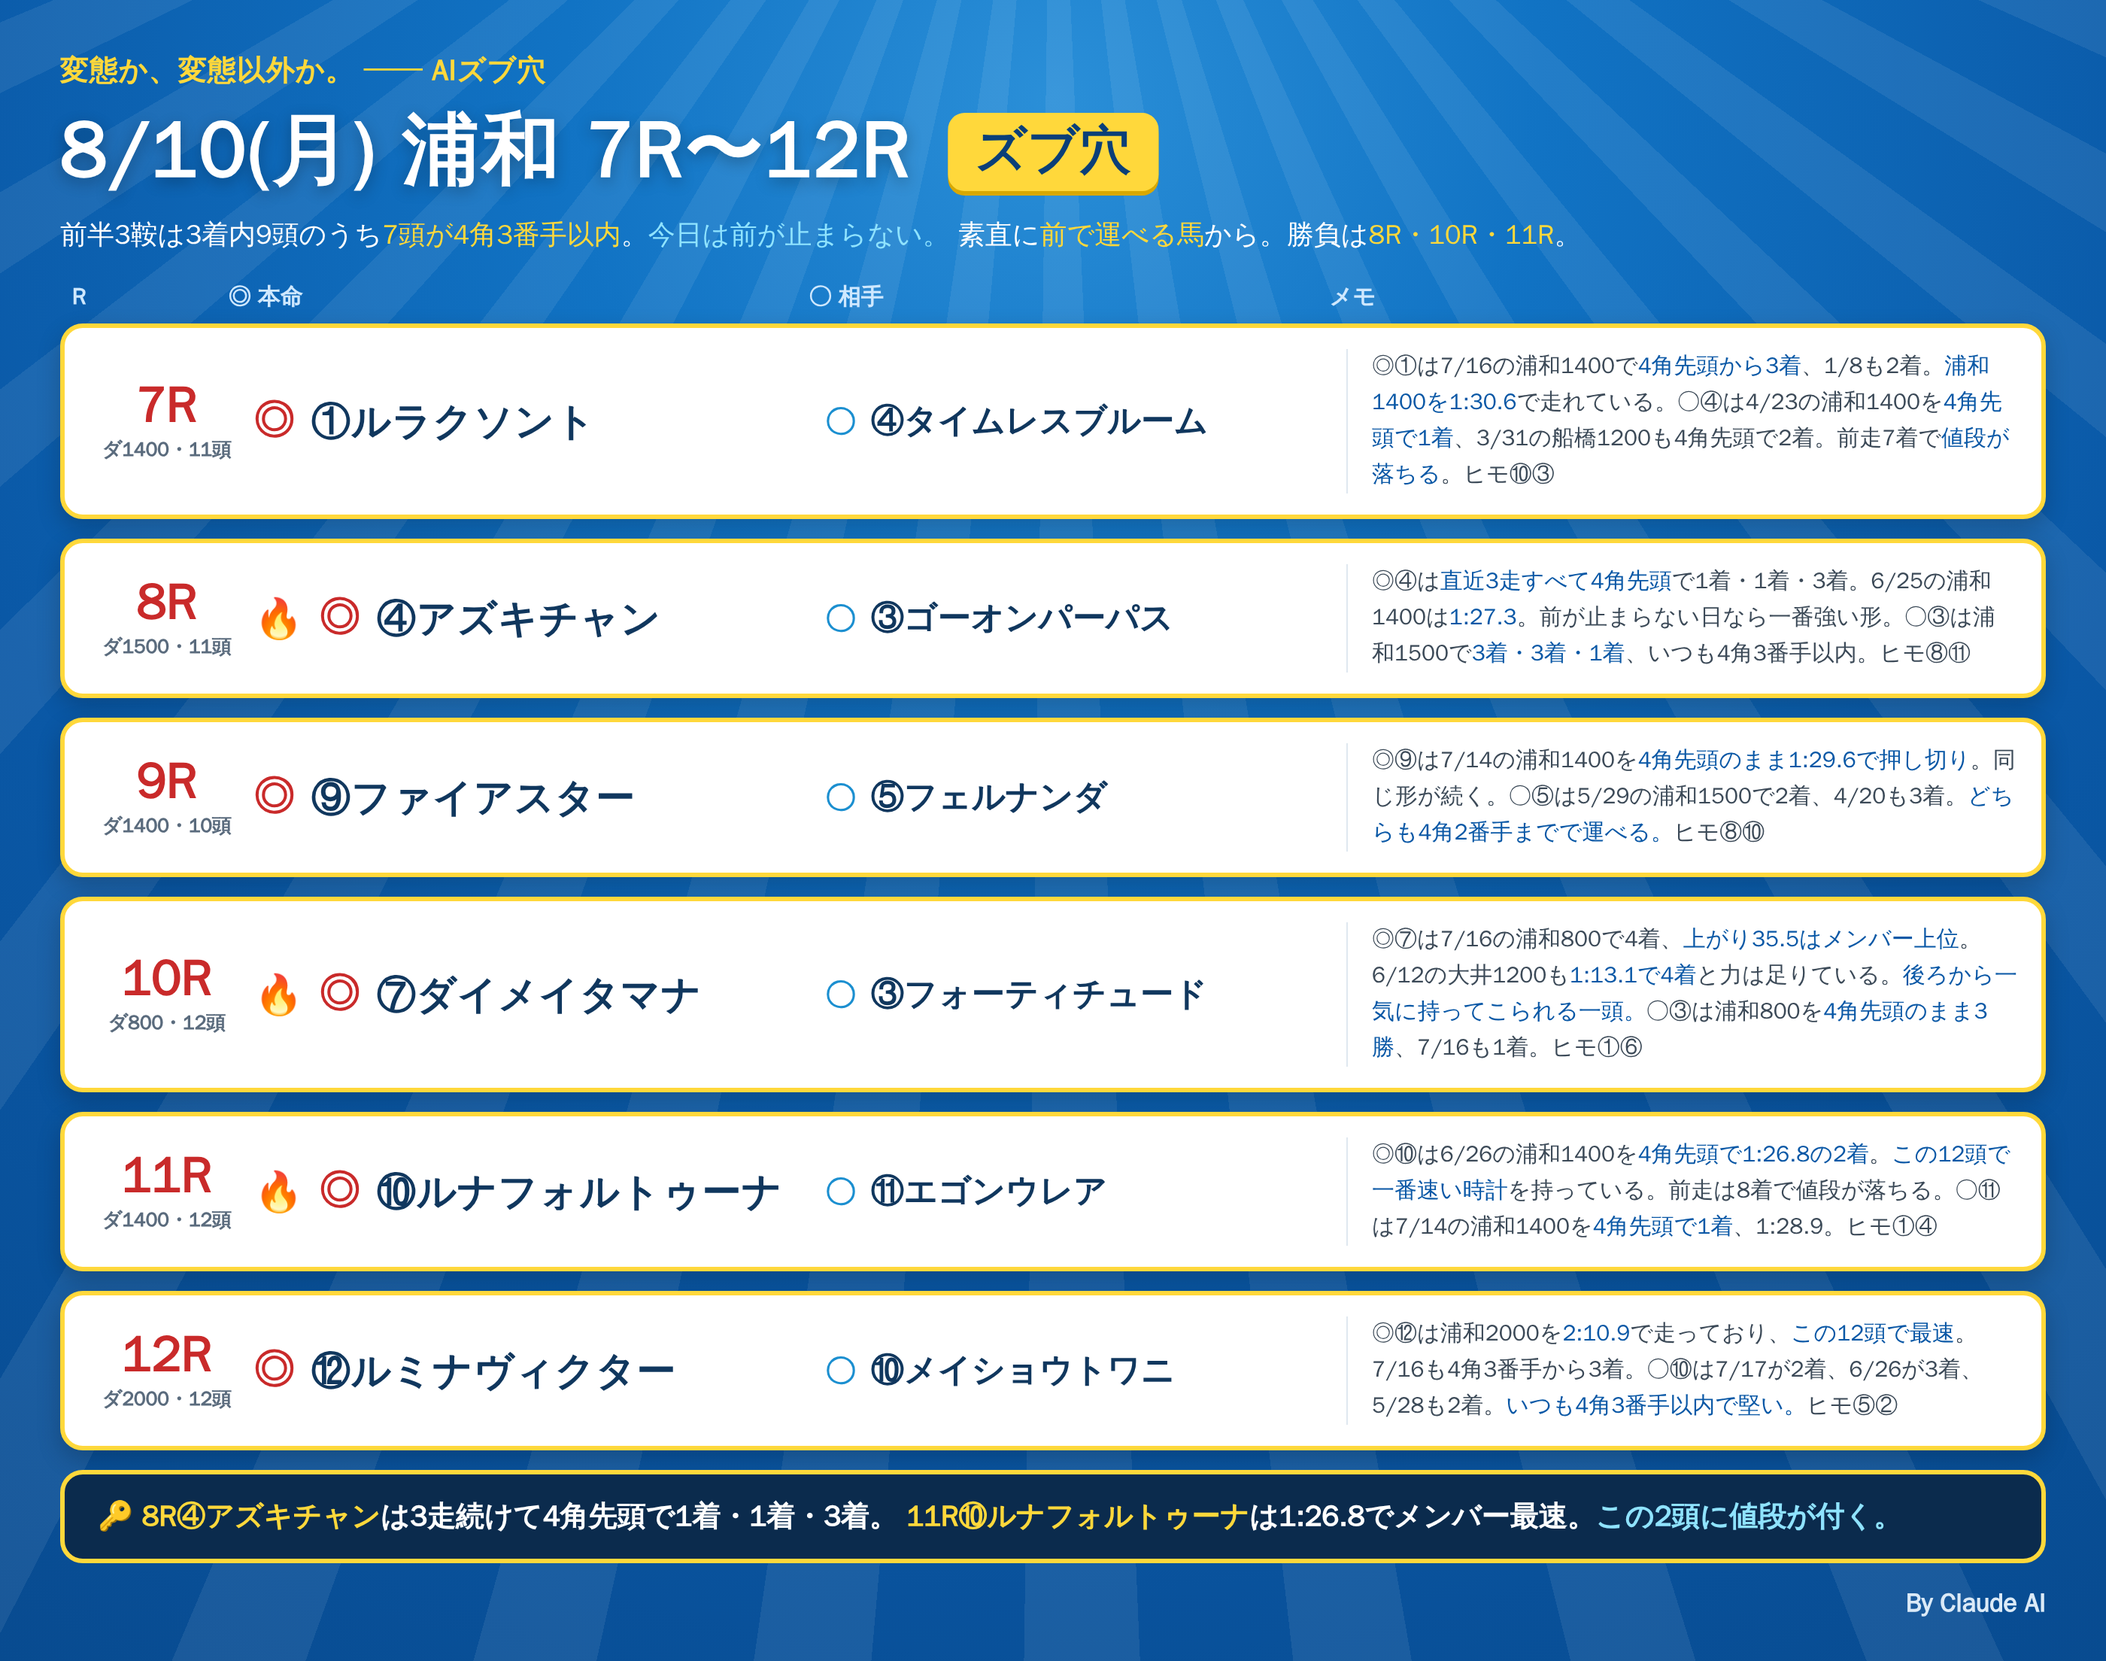
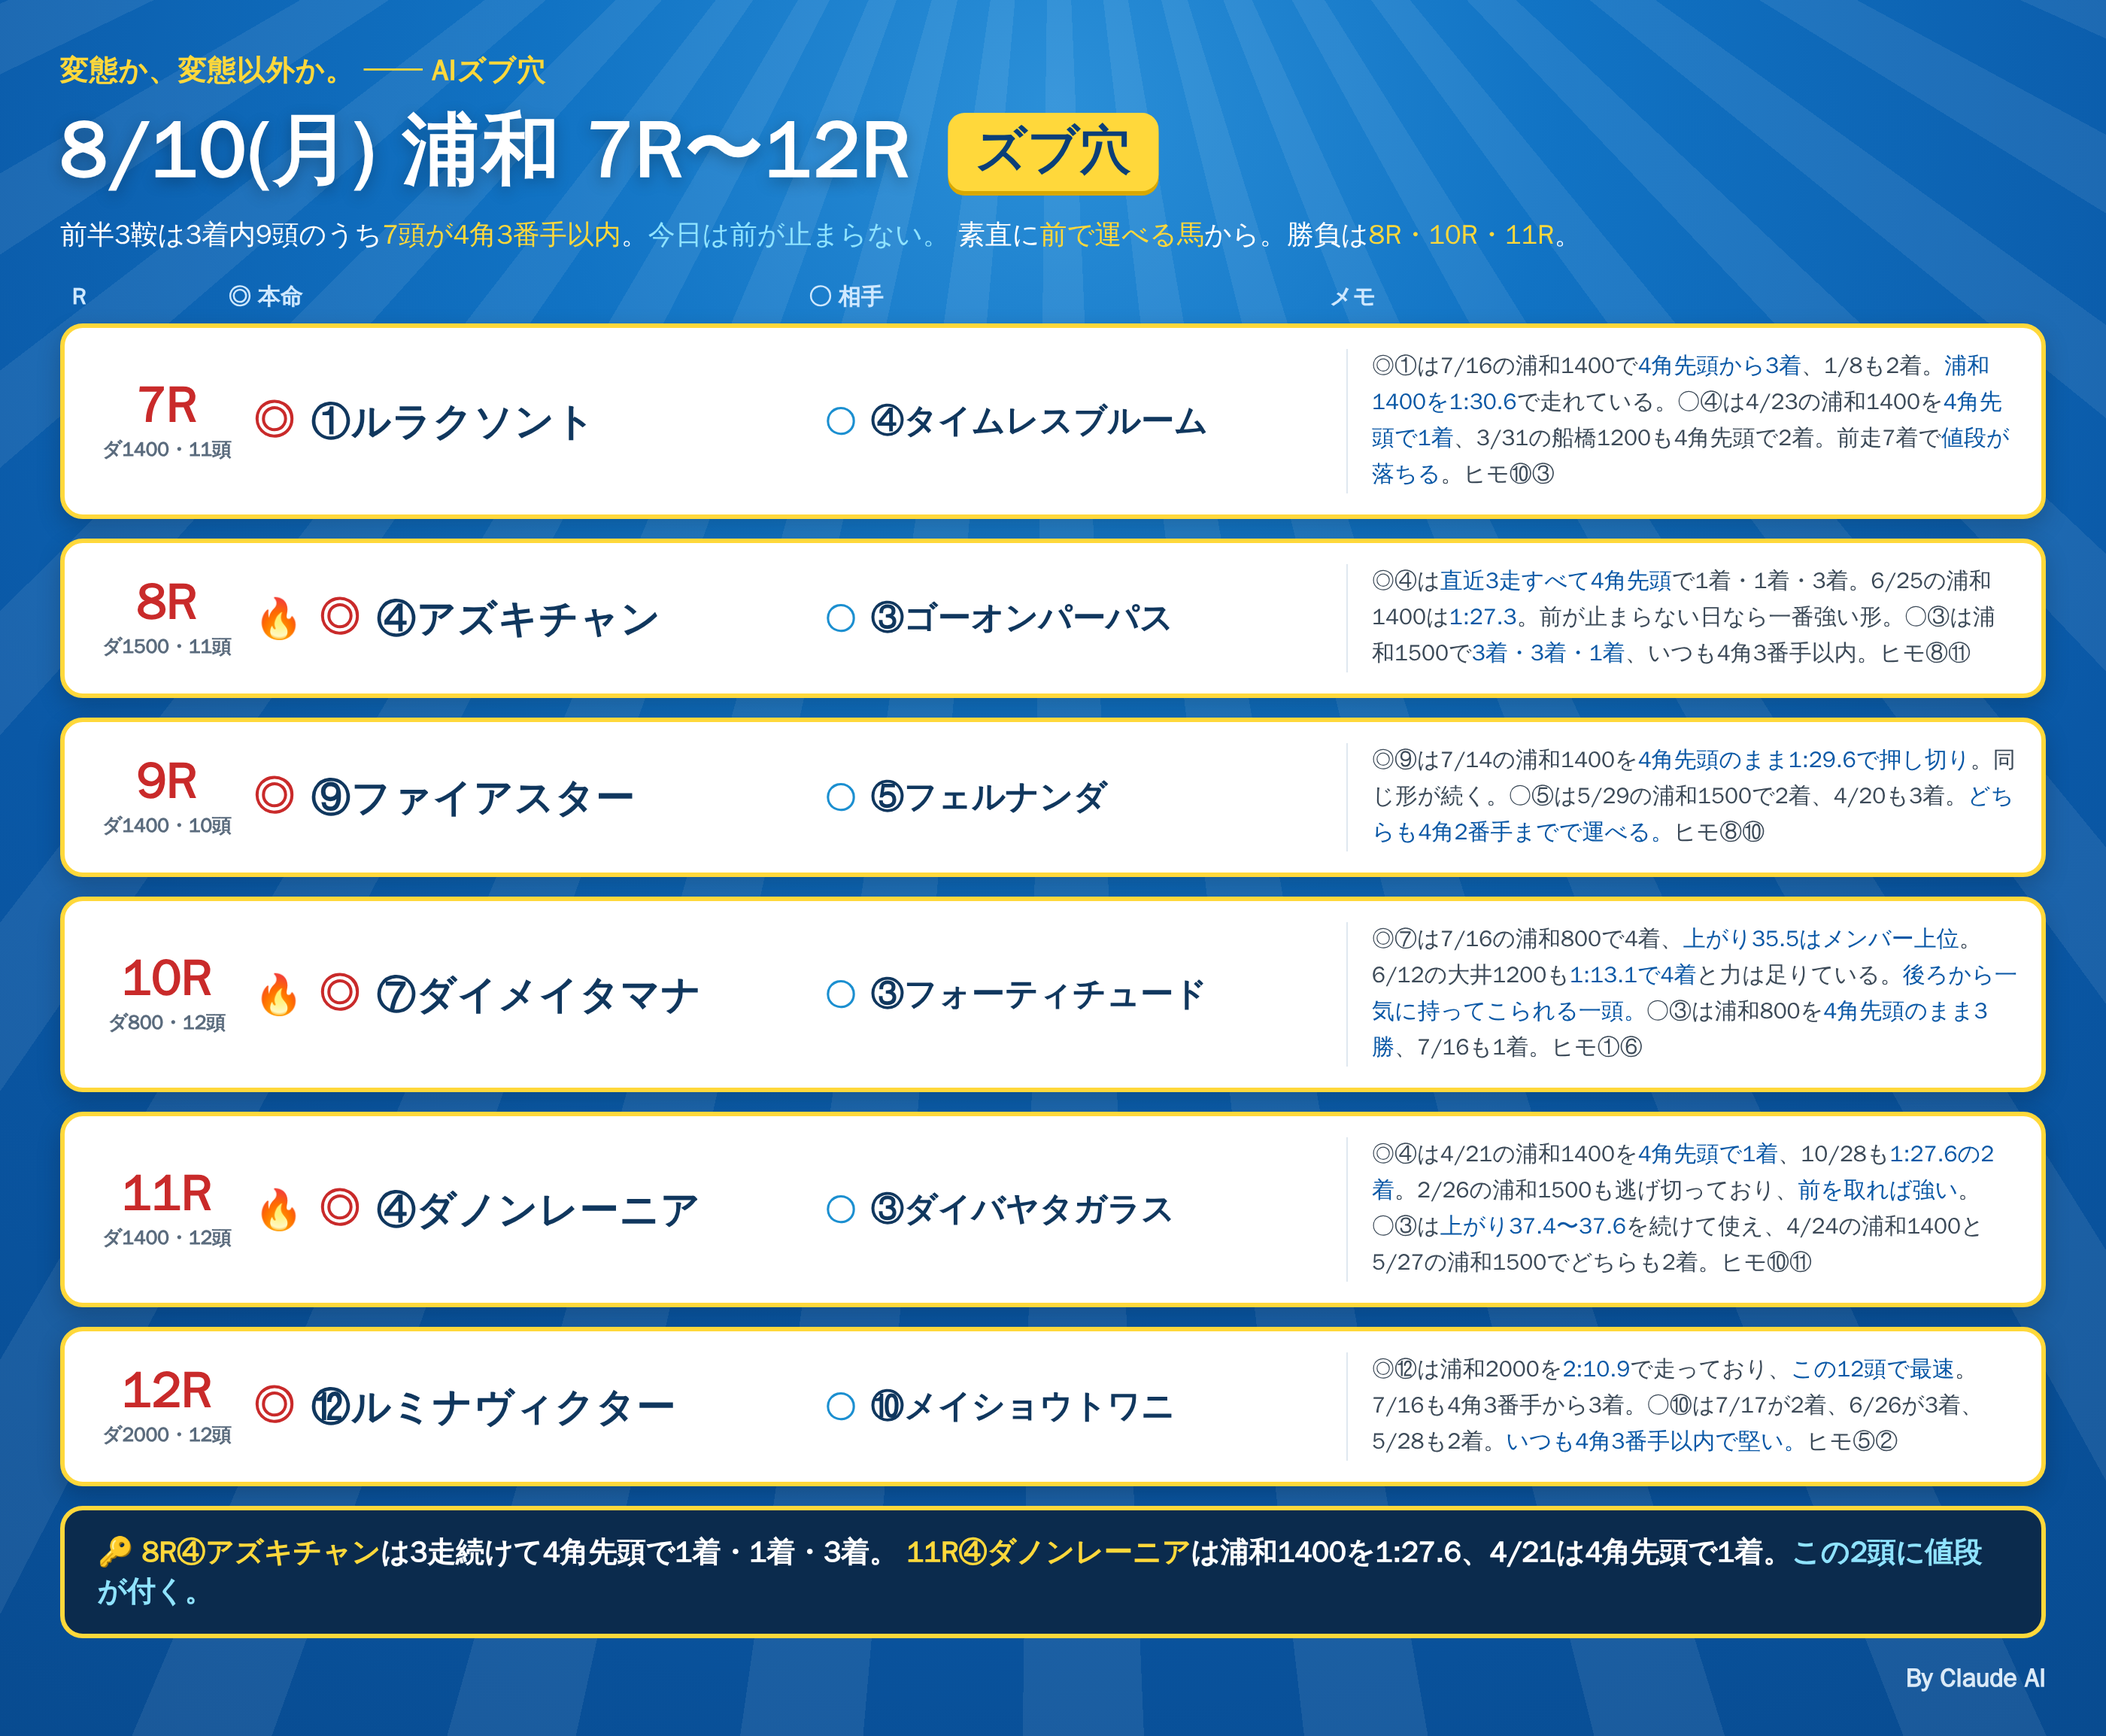
8/10 浦和 11Rの印を◎④ダノンレーニア・○③ダイバヤタガラスに変更
⑩ルナフォルトゥーナと⑪エゴンウレアはヒモへ。フッターの記載も差し替えた。

Claude-Session: https://claude.ai/code/session_01RoHscZkr96FNaxQWvUqgEw

Changed region(s): [[0.0311, 0.0312, 0.9943, 0.9688]]

diff --git a/notes/live/2026-08-10/urawa_7_12.html b/notes/live/2026-08-10/urawa_7_12.html
@@ -79,9 +79,9 @@
 
   <div class="row">
     <div class="rN"><div class="n">11R</div><div class="d">ダ1400・12頭</div></div>
-    <div class="hm"><span class="fire">🔥</span><span class="mk">◎</span><span class="nm">⑩ルナフォルトゥーナ</span></div>
-    <div class="at"><span class="mk2">○</span><span class="nm2">⑪エゴンウレア</span></div>
-    <div class="memo">◎⑩は6/26の浦和1400を<b>4角先頭で1:26.8の2着</b>。<b>この12頭で一番速い時計</b>を持っている。前走は8着で値段が落ちる。○⑪は7/14の浦和1400を<b>4角先頭で1着</b>、1:28.9。ヒモ①④</div>
+    <div class="hm"><span class="fire">🔥</span><span class="mk">◎</span><span class="nm">④ダノンレーニア</span></div>
+    <div class="at"><span class="mk2">○</span><span class="nm2">③ダイバヤタガラス</span></div>
+    <div class="memo">◎④は4/21の浦和1400を<b>4角先頭で1着</b>、10/28も<b>1:27.6の2着</b>。2/26の浦和1500も逃げ切っており、<b>前を取れば強い</b>。○③は<b>上がり37.4〜37.6</b>を続けて使え、4/24の浦和1400と5/27の浦和1500でどちらも2着。ヒモ⑩⑪</div>
   </div>
 
   <div class="row">
@@ -92,7 +92,7 @@
   </div>
 
   <div class="foot">🔑 <span class="y">8R④アズキチャン</span>は3走続けて4角先頭で1着・1着・3着。
-  <span class="y">11R⑩ルナフォルトゥーナ</span>は1:26.8でメンバー最速。<span class="c">この2頭に値段が付く。</span></div>
+  <span class="y">11R④ダノンレーニア</span>は浦和1400を1:27.6、4/21は4角先頭で1着。<span class="c">この2頭に値段が付く。</span></div>
   <div class="sig">By Claude AI</div>
 </div></div>
 </body></html>
